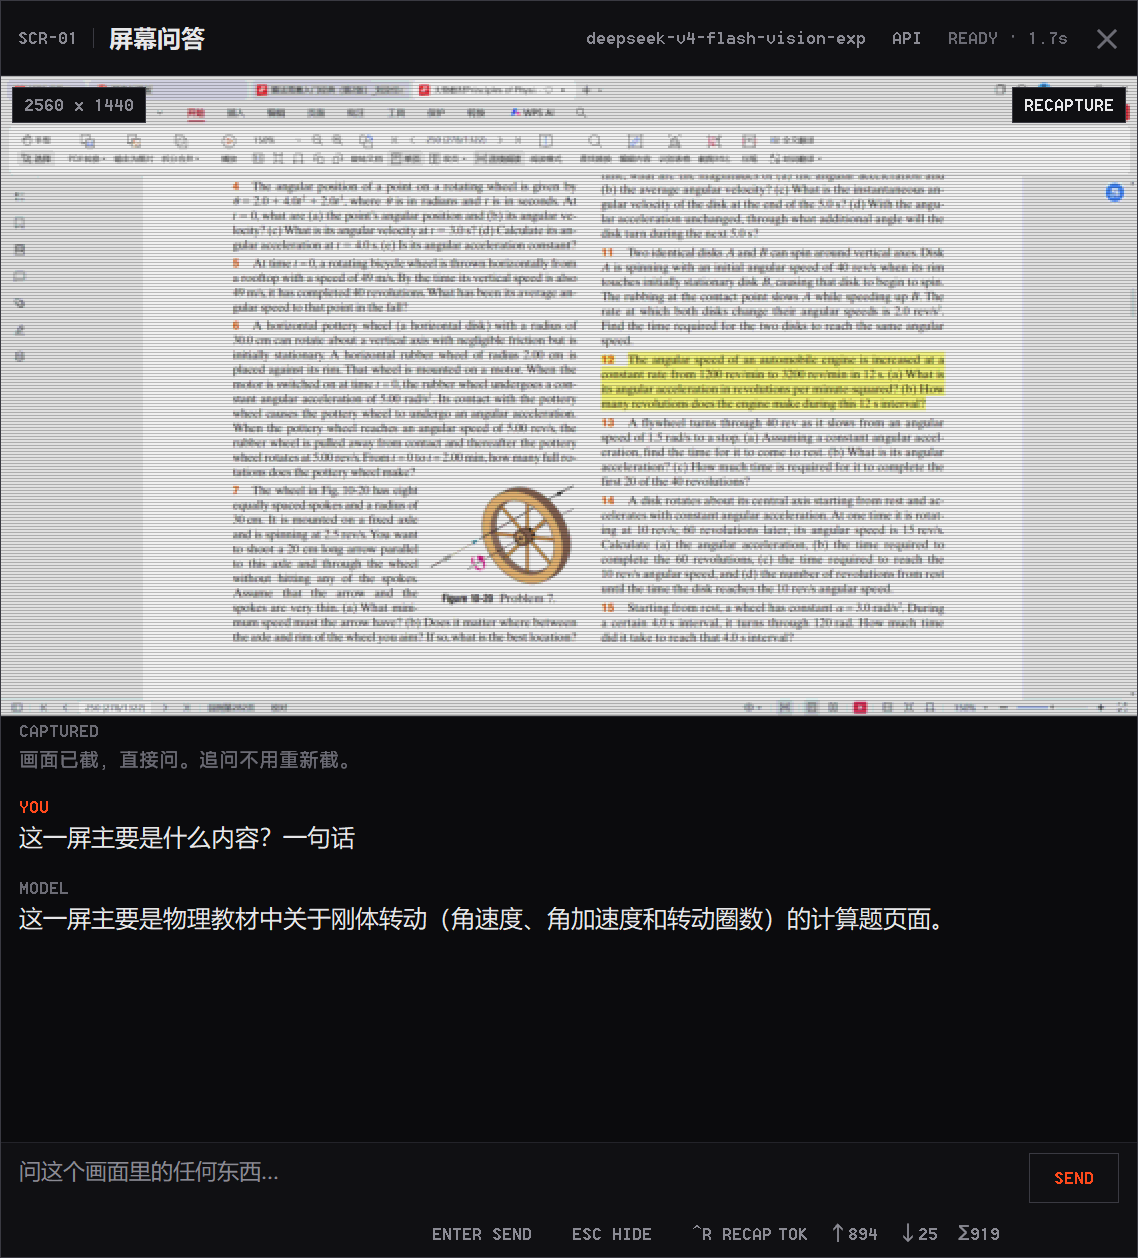
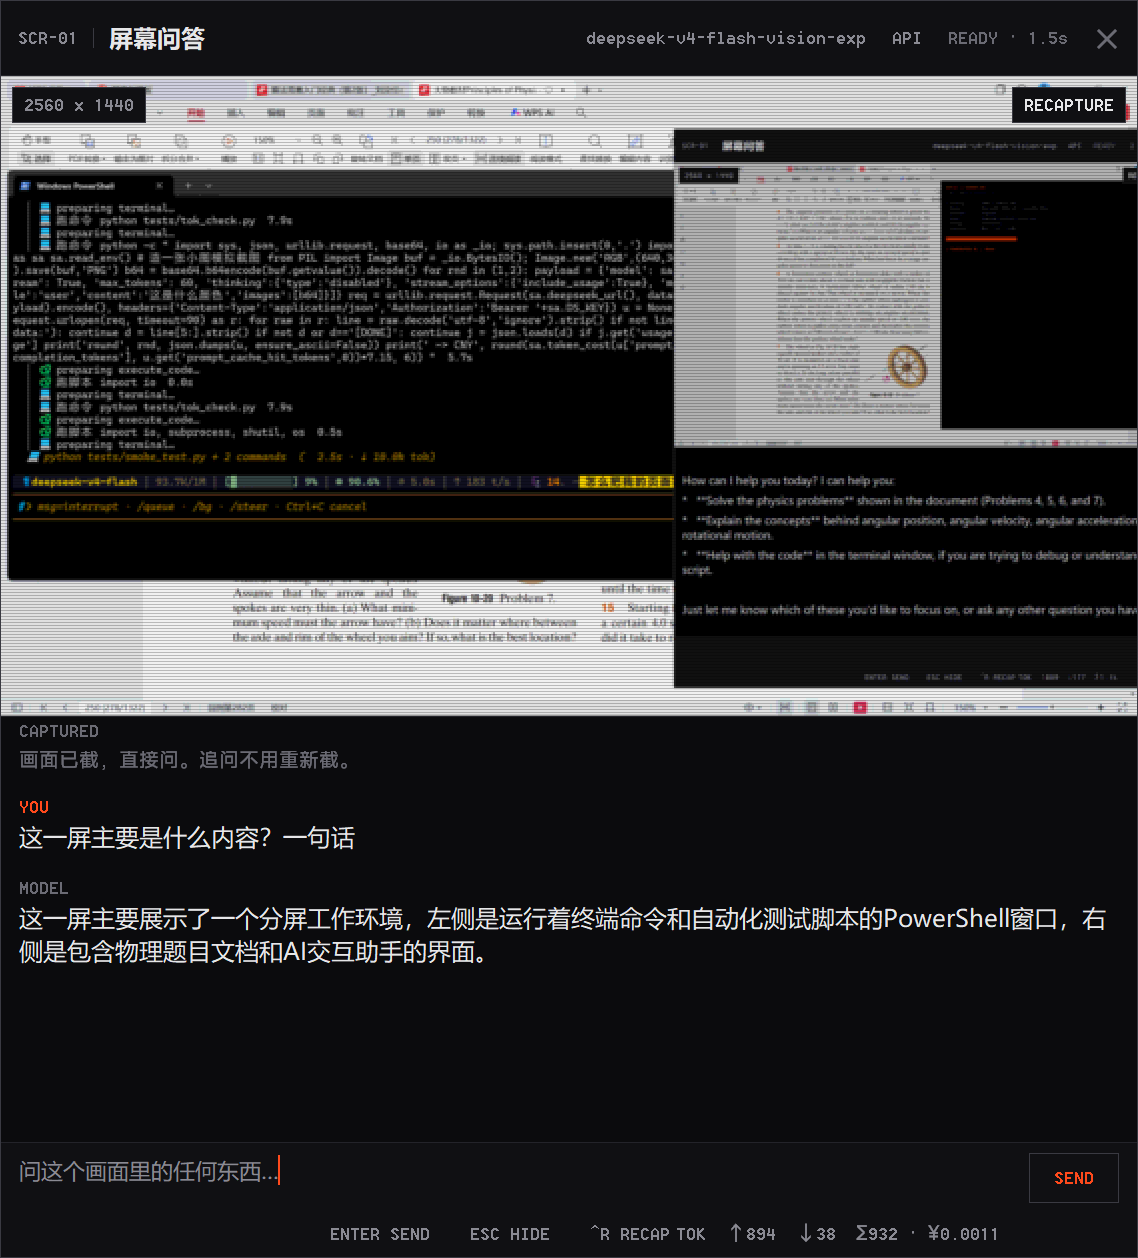
feat: cost estimate in token readout (official tiered pricing, cache-aware)

diff --git a/screen_ask.py b/screen_ask.py
@@ -54,6 +54,35 @@ ACCENT = "#ff4a1c"
 
 PH = "问这个画面里的任何东西…"
 
+# DeepSeek 官方定价（USD / 1M tokens）
+# 来源 api-docs.deepseek.com/quick_start/pricing，2026-10 核对
+# 高峰 = UTC 01:00-04:00 与 06:00-10:00 的工作日（= 北京 09-12 / 14-18）
+# 中国法定节假日未排除，节假日会被按高峰计价，略高估
+PRICE = {
+    "peak":    (0.006, 0.30, 1.2),   # (cache hit, cache miss, output)
+    "offpeak": (0.003, 0.15, 0.6),
+}
+USD_CNY = 7.15
+
+
+def is_peak(now=None):
+    import datetime as _dt
+    t = now or _dt.datetime.now(_dt.timezone.utc)
+    if t.weekday() >= 5:
+        return False
+    h = t.hour + t.minute / 60.0
+    return (1.0 <= h < 4.0) or (6.0 <= h < 10.0)
+
+
+def token_cost(prompt, completion, cache_hit=0):
+    """按官方分档计价，返回美元。"""
+    prompt = int(prompt or 0)
+    completion = int(completion or 0)
+    hit = max(0, min(int(cache_hit or 0), prompt))
+    miss = prompt - hit
+    p_hit, p_miss, p_out = PRICE["peak" if is_peak() else "offpeak"]
+    return (hit * p_hit + miss * p_miss + completion * p_out) / 1e6
+
 # 基准尺寸（96 DPI 下的逻辑像素），实际窗口按屏幕与 DPI 自适应
 BASE_W, BASE_H = 760, 840
 MIN_W, MIN_H = 520, 560
@@ -345,6 +374,7 @@ class App:
         self.busy = False
         self.tok_in = 0          # 累计精确值（API usage）
         self.tok_out = 0
+        self.cost_usd = 0.0      # 累计花费（按官方分档价估算）
         self._tok_pending = 0    # 工作线程写入的已收字符数
         self._tok_shown = -1
         self._tok_live = False
@@ -1111,7 +1141,7 @@ class App:
                             self.ui_q.put(("delta", d))
                         if j.get("done"):
                             self.ui_q.put(("usage", (j.get("prompt_eval_count") or 0,
-                                                     j.get("eval_count") or 0)))
+                                                     j.get("eval_count") or 0, 0)))
                             break
             else:
                 if not DS_KEY:
@@ -1152,7 +1182,8 @@ class App:
                         u = j.get("usage")
                         if u:
                             self.ui_q.put(("usage", (u.get("prompt_tokens") or 0,
-                                                     u.get("completion_tokens") or 0)))
+                                                     u.get("completion_tokens") or 0,
+                                                     u.get("prompt_cache_hit_tokens") or 0)))
             self.ui_q.put(("done", acc))
         except urllib.error.HTTPError as e:
             body = e.read().decode("utf-8", "ignore")[:300]
@@ -1169,6 +1200,19 @@ class App:
             return "%.1fk" % (n / 1000.0)
         return str(n)
 
+    @staticmethod
+    def _fmt_cny(usd):
+        c = (usd or 0.0) * USD_CNY
+        if c <= 0:
+            return "\u00a50"
+        if c < 0.0001:
+            return "\u00a5<0.0001"
+        if c < 0.01:
+            return "\u00a5%.4f" % c
+        if c < 1:
+            return "\u00a5%.3f" % c
+        return "\u00a5%.2f" % c
+
     def _tok_show(self, inn=None, out=None):
         """流式只报输出（不编造输入数），结束后补 API 返回的精确 usage。"""
         if getattr(self, "tok_lbl", None) is None:
@@ -1180,9 +1224,10 @@ class App:
         if inn is None:
             inn, out = self.tok_in, self.tok_out
         self.tok_lbl.configure(
-            text="TOK  \u2191%s  \u2193%s  \u03a3%s"
+            text="TOK  \u2191%s  \u2193%s  \u03a3%s \u00b7 %s"
                  % (self._fmt_tok(inn), self._fmt_tok(out),
-                    self._fmt_tok(self.tok_in + self.tok_out)),
+                    self._fmt_tok(self.tok_in + self.tok_out),
+                    self._fmt_cny(self.cost_usd)),
             fg=MUTED)
 
     def _insert(self, s, tag):
@@ -1203,6 +1248,8 @@ class App:
                 elif kind == "usage":
                     self.tok_in += payload[0]
                     self.tok_out += payload[1]
+                    self.cost_usd += token_cost(payload[0], payload[1],
+                                                payload[2] if len(payload) > 2 else 0)
                     self._tok_live = False
                     self._tok_show(payload[0], payload[1])
                 elif kind == "done":

diff --git a/tests/tok_check.py b/tests/tok_check.py
@@ -9,6 +9,20 @@ sys.path.insert(0, str(ROOT))
 
 import screen_ask as sa
 
+# 打印每次计价明细（确认 cache hit 是否按官方分档扣）
+_orig_cost = sa.token_cost
+
+
+def _spy(prompt, completion, cache_hit=0):
+    usd = _orig_cost(prompt, completion, cache_hit)
+    print("   [usage] prompt=%d completion=%d cache_hit=%d -> ¥%.6f%s"
+          % (prompt, completion, cache_hit, usd * sa.USD_CNY,
+             " (PEAK)" if sa.is_peak() else ""))
+    return usd
+
+
+sa.token_cost = _spy
+
 sa.setup_dpi()
 root = tk.Tk()
 root.withdraw()
